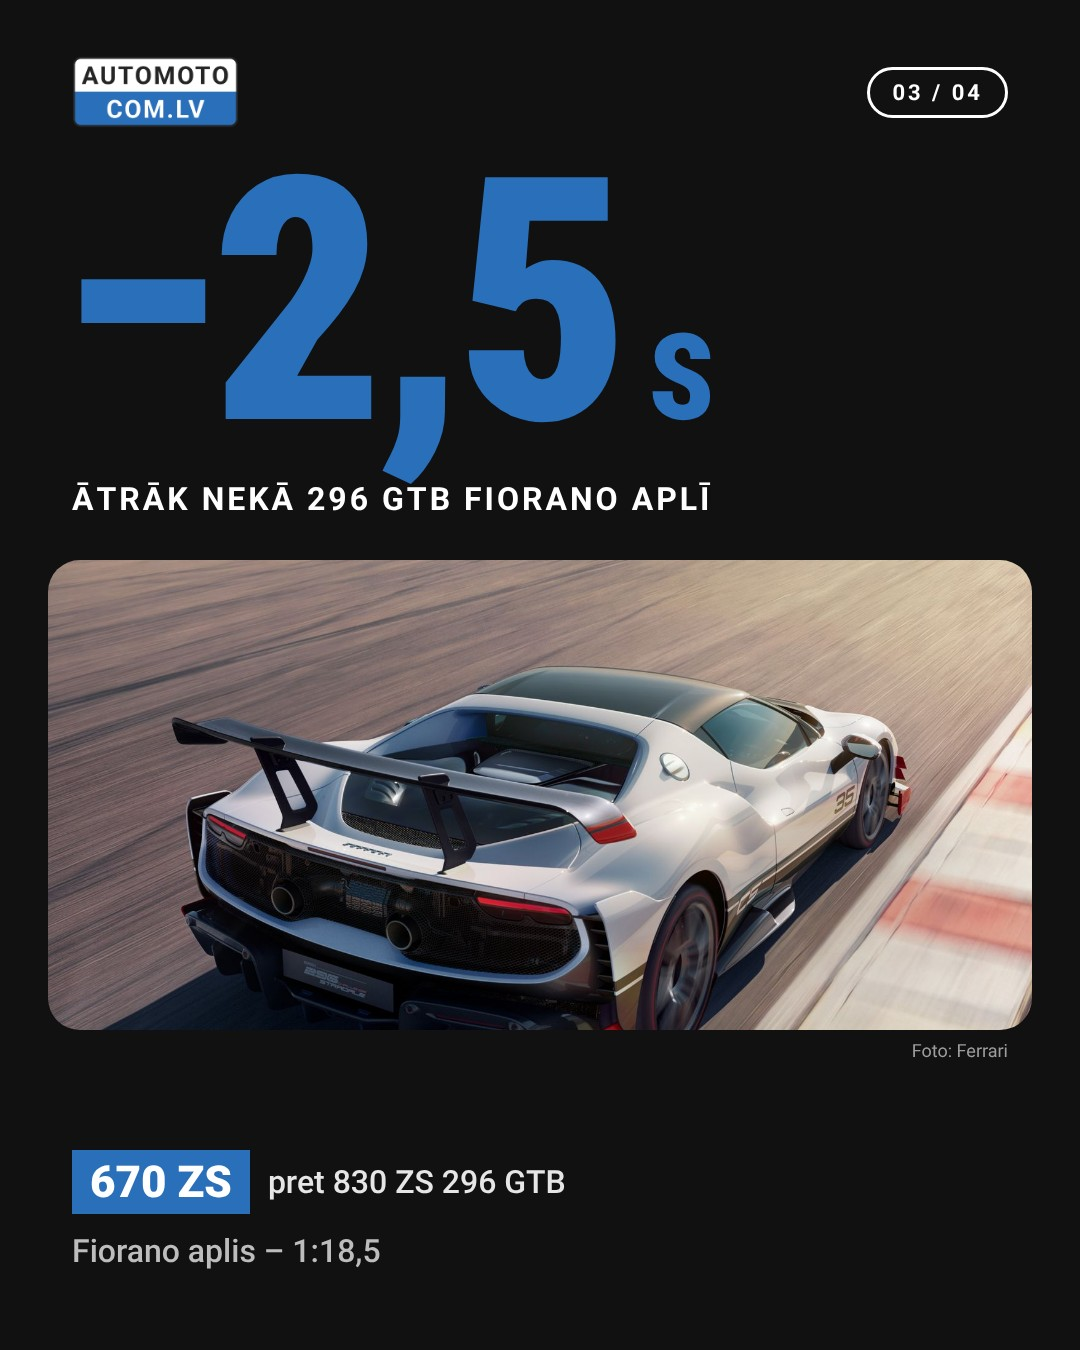
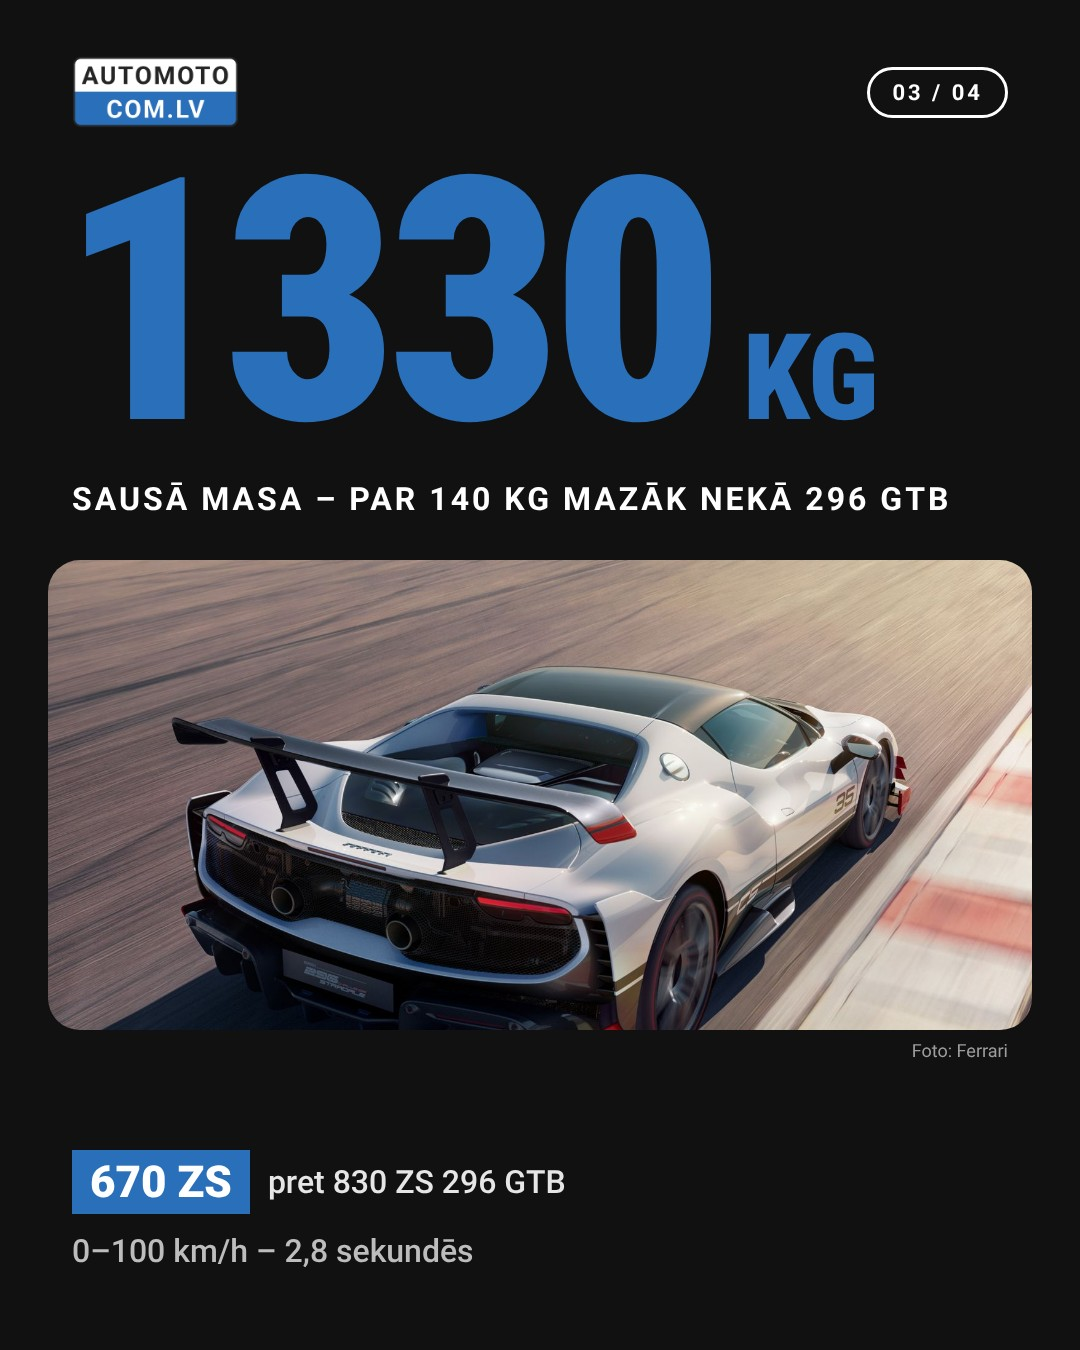
Ferrari 296 slide 3: weight instead of lap time
Claude-Session: https://claude.ai/code/session_013xPx1ZMRLZsiTitrT1Wv4i

Changed region(s): [[0.0611, 0.1244, 0.8861, 0.4044], [0.0611, 0.9022, 0.4278, 0.9333], [0.3056, 0.1244, 0.3361, 0.1556]]

diff --git a/pipeline/day_1124.py b/pipeline/day_1124.py
@@ -28,14 +28,14 @@ N = {
   'ua': dict(badgeC='', title1='Ferrari 296', title2='без гібрида',
              sub='Challenge Stradale — гоночна машина для звичайних доріг',
              items=['Електромотор і батарею прибрали: лише V6 бітурбо, 670\u00a0к.с.', 'Суха маса — 1330 кг, на 140 кг менше, ніж у 296 GTB', 'Притискна сила — 617 кг на швидкості 250 км/год', '0–100 км/год за 2,8 с'],
-             factsnote='далі цифри →', big='−2,5', bigunit=' с', bigcap='швидше за 296 GTB коло у Фьорано',
-             badge='670 к.с.', badgesub='проти 830 к.с. у 296 GTB', statsub='Коло у Фьорано — 1:18,5',
+             factsnote='далі цифри →', big='1330', bigunit=' кг', bigcap='суха маса — на 140 кг менше, ніж у 296 GTB',
+             badge='670 к.с.', badgesub='проти 830 к.с. у 296 GTB', statsub='0–100 км/год — за 2,8 с',
              q1='А що для вас важливіше в спортивному авто:', q2='потужність чи мала вага?'),
   'lv': dict(badgeC='', title1='Ferrari 296', title2='bez hibrīda',
              sub='Challenge Stradale – sacīkšu auto parastiem ceļiem',
              items=['Elektromotors un akumulators noņemti: tikai V6 biturbo, 670\u00a0ZS', 'Sausā masa – 1330 kg, par 140 kg mazāk nekā 296 GTB', 'Piespiedējspēks – 617 kg pie 250 km/h', '0–100 km/h 2,8 sekundēs'],
-             factsnote='tālāk skaitļi →', big='−2,5', bigunit=' s', bigcap='ātrāk nekā 296 GTB Fiorano aplī',
-             badge='670 ZS', badgesub='pret 830 ZS 296 GTB', statsub='Fiorano aplis – 1:18,5',
+             factsnote='tālāk skaitļi →', big='1330', bigunit=' kg', bigcap='sausā masa – par 140 kg mazāk nekā 296 GTB',
+             badge='670 ZS', badgesub='pret 830 ZS 296 GTB', statsub='0–100 km/h – 2,8 sekundēs',
              q1='Kas jums sporta auto ir svarīgāks:', q2='jauda vai mazs svars?')},
 }
 
